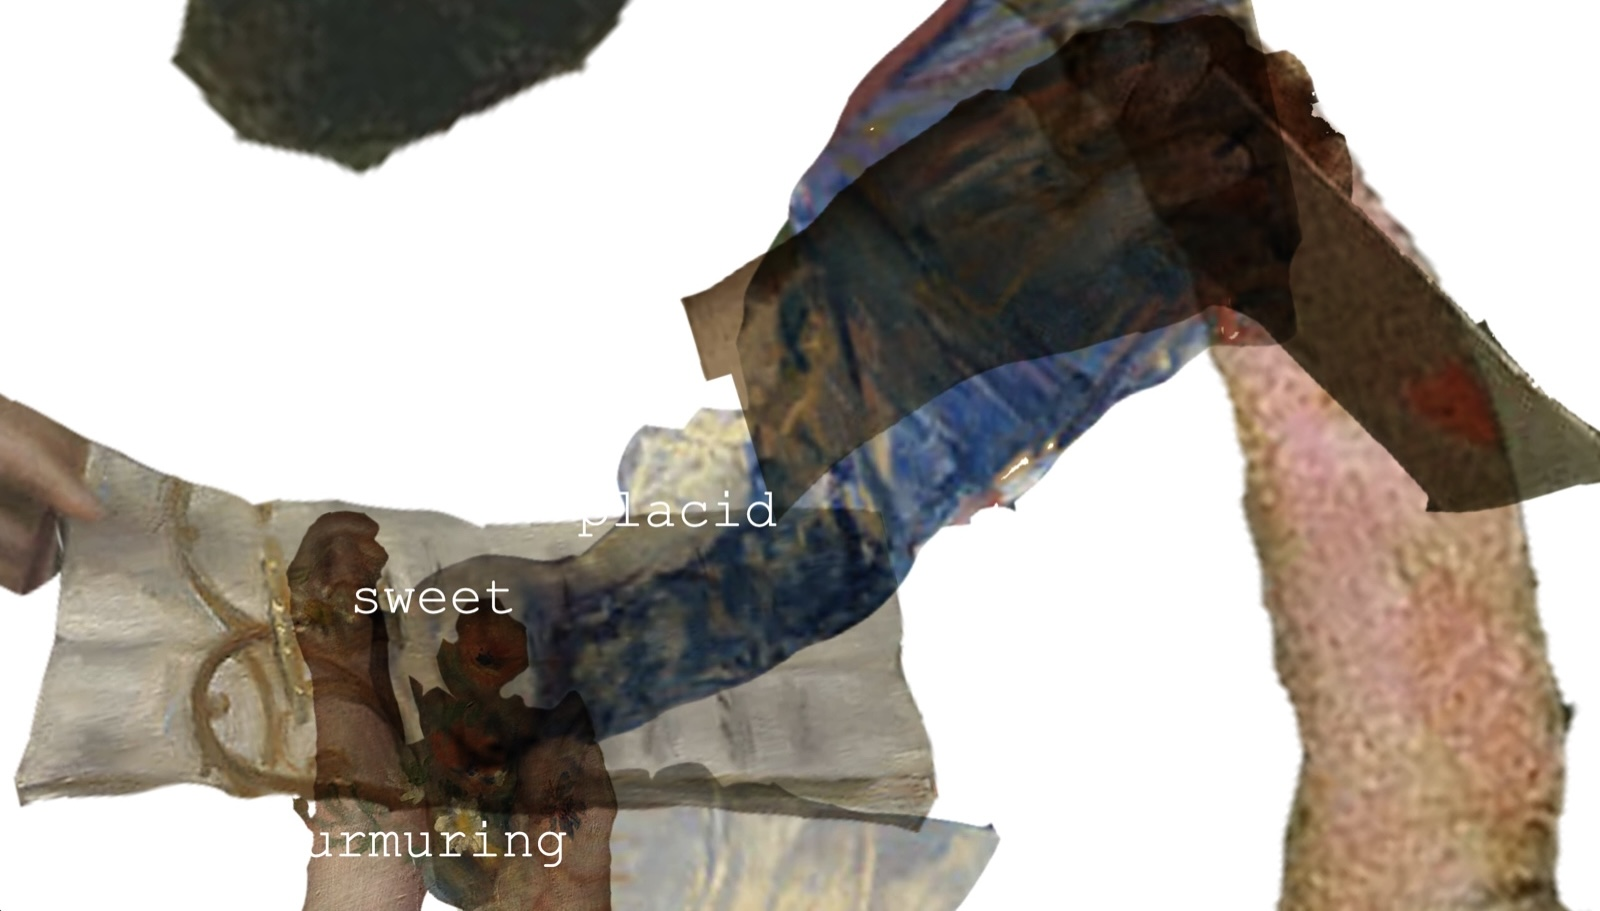
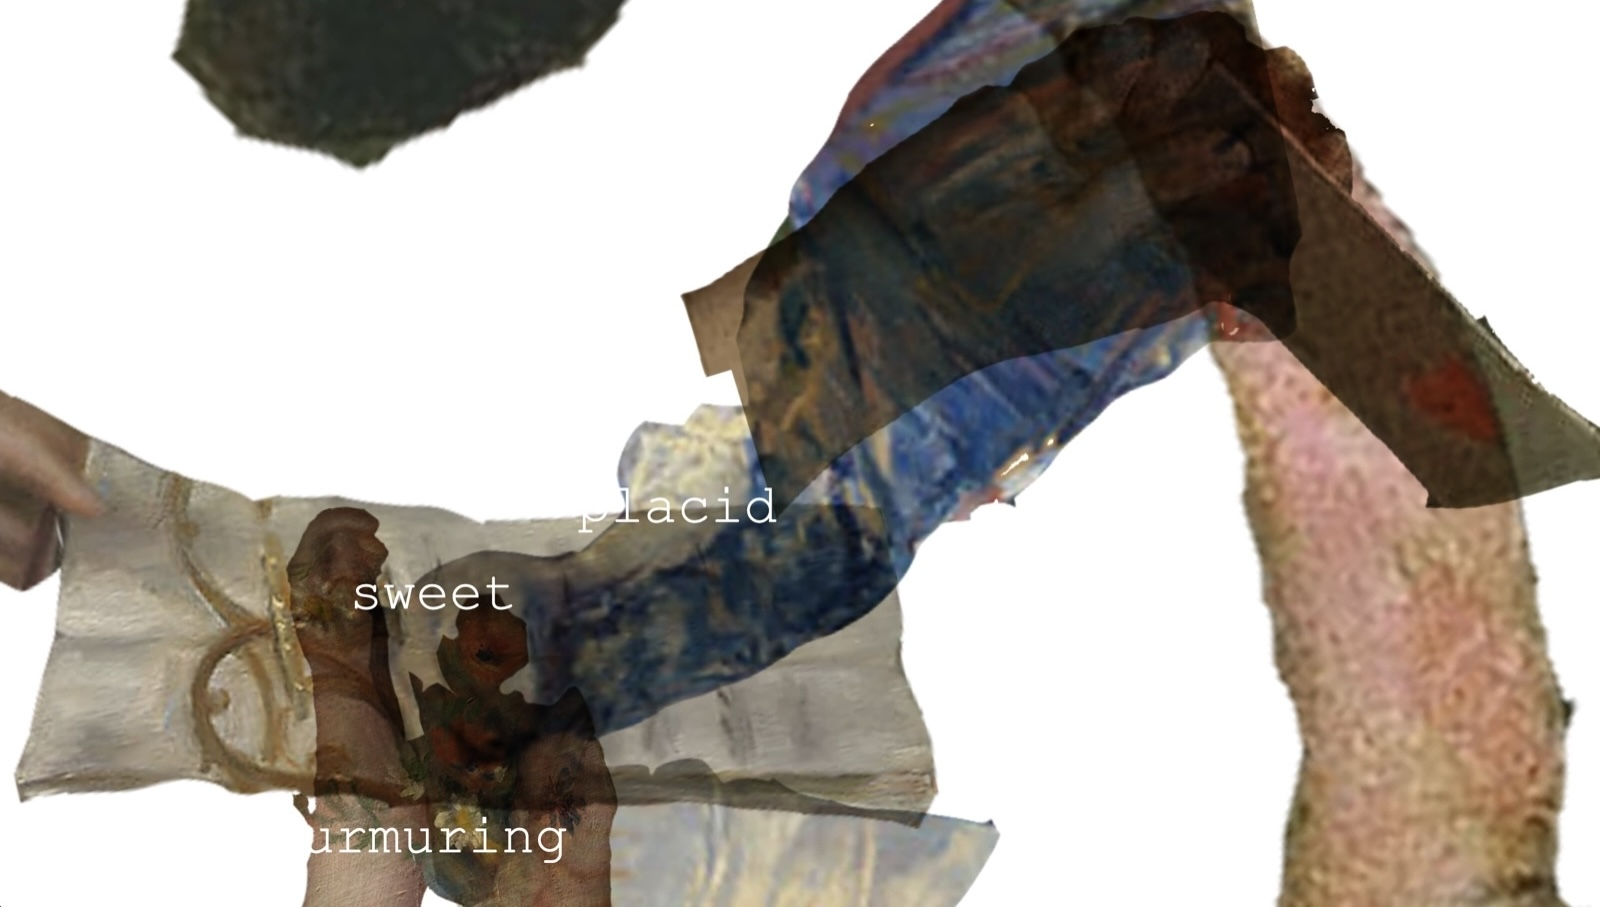
holding

diff --git a/otherprojects.html b/otherprojects.html
@@ -136,9 +136,9 @@
       const holdingGallery = document.querySelector('.holding-gallery');
       const holdingImage = holdingGallery.querySelector('img');
       const holdingScreenshots = [
-        { number: 3, height: 917 },
-        { number: 4, height: 916 },
-        { number: 2, height: 916 },
+        { file: 'holding-screenshot3-web.jpg', height: 917 },
+        { file: 'holding-screenshot4-web.jpg?v=top-trimmed', height: 911 },
+        { file: 'holding-screenshot2-web.jpg', height: 916 },
       ];
       let holdingIndex = 0;
 
@@ -147,7 +147,7 @@
           const count = holdingScreenshots.length;
           holdingIndex = (holdingIndex + Number(button.dataset.step) + count) % count;
           const screenshot = holdingScreenshots[holdingIndex];
-          holdingImage.src = `images/otherprojects/holding-screenshot${screenshot.number}-web.jpg`;
+          holdingImage.src = `images/otherprojects/${screenshot.file}`;
           holdingImage.height = screenshot.height;
           holdingImage.alt = `holding screenshot ${holdingIndex + 1} of ${count}`;
         });
